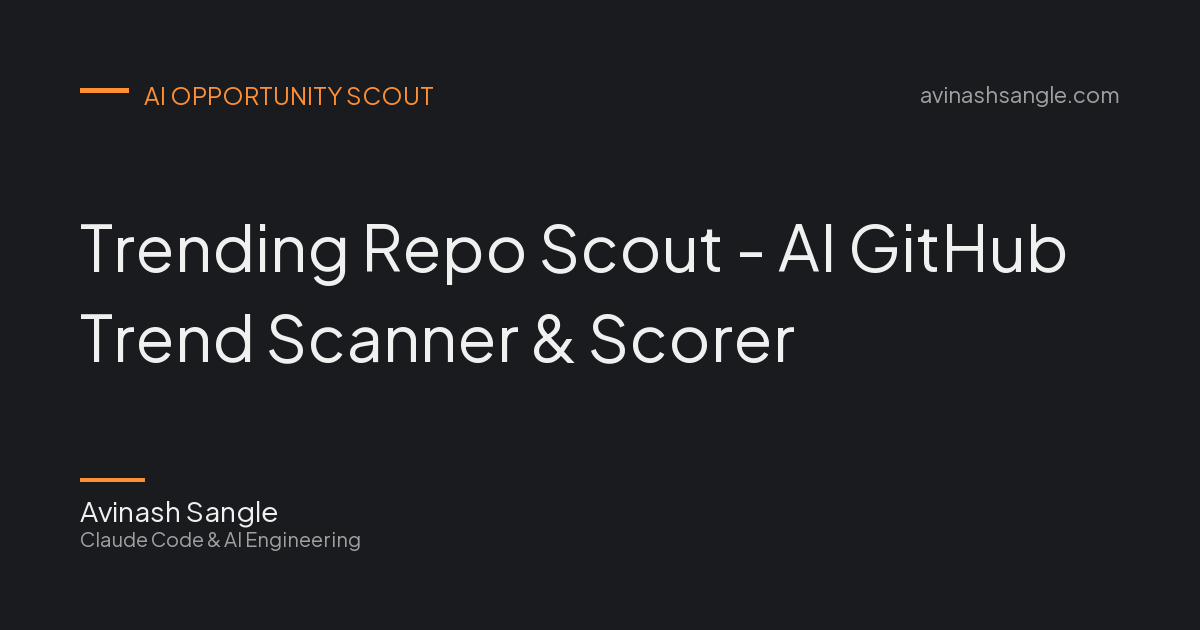
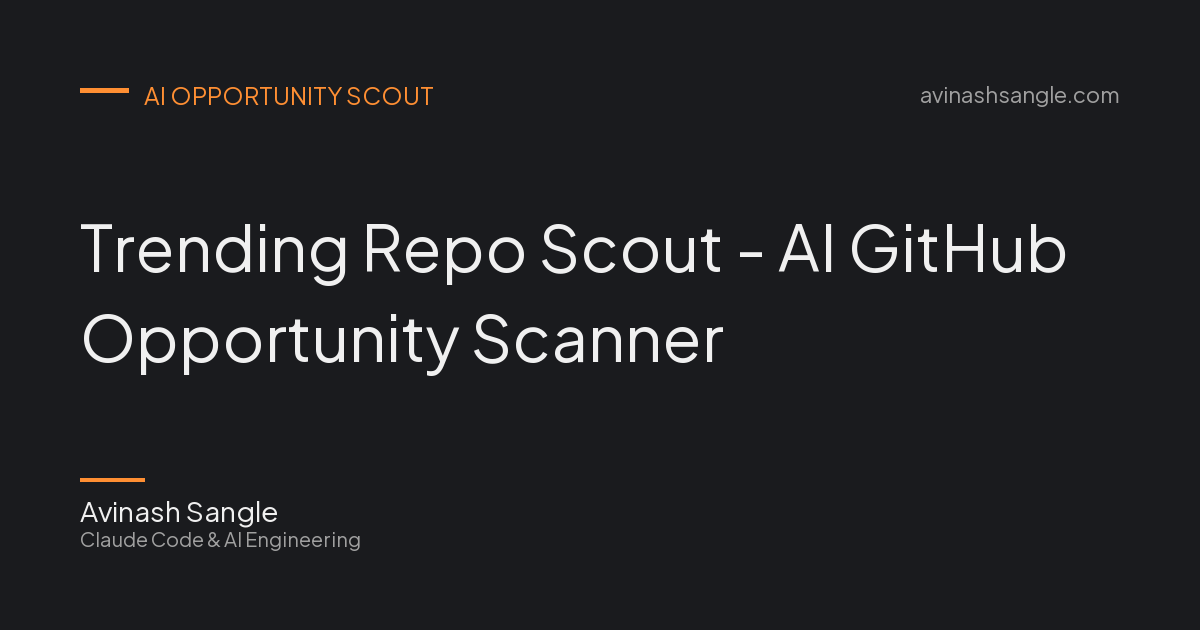
fix: shorten trending-repo-scout title under Bing's 70-char limit
The root layout template appends " | Avinash Sangle" (+17 chars), so the
56-char metadata title rendered at 73 and Bing flagged "Title too long".
Cut to 51 chars (68 rendered) and noted the <=53 budget inline so the
next edit doesn't reintroduce it. OG image regenerated to match.

Changed region(s): [[0.0617, 0.4825, 0.6783, 0.6032]]

diff --git a/src/app/projects/trending-repo-scout/page.tsx b/src/app/projects/trending-repo-scout/page.tsx
@@ -10,7 +10,9 @@ import Link from "next/link"
 import { ExternalLink, CheckCircle, TrendingUp, Brain, DollarSign, History, Send, LayoutDashboard } from "lucide-react"
 
 export const metadata: Metadata = {
-  title: "Trending Repo Scout - AI GitHub Trend Scanner and Scorer",
+  // Rendered title = this + " | Avinash Sangle" (root layout template, +17 chars).
+  // Keep this <=53 so the rendered title stays under Bing's 70-char limit.
+  title: "Trending Repo Scout - AI GitHub Opportunity Scanner",
   description:
     "Serverless scout that scans GitHub trending daily, scores each repo with Claude on virality, buildability, and pay-readiness, then posts a ranked Slack digest.",
   keywords: [
